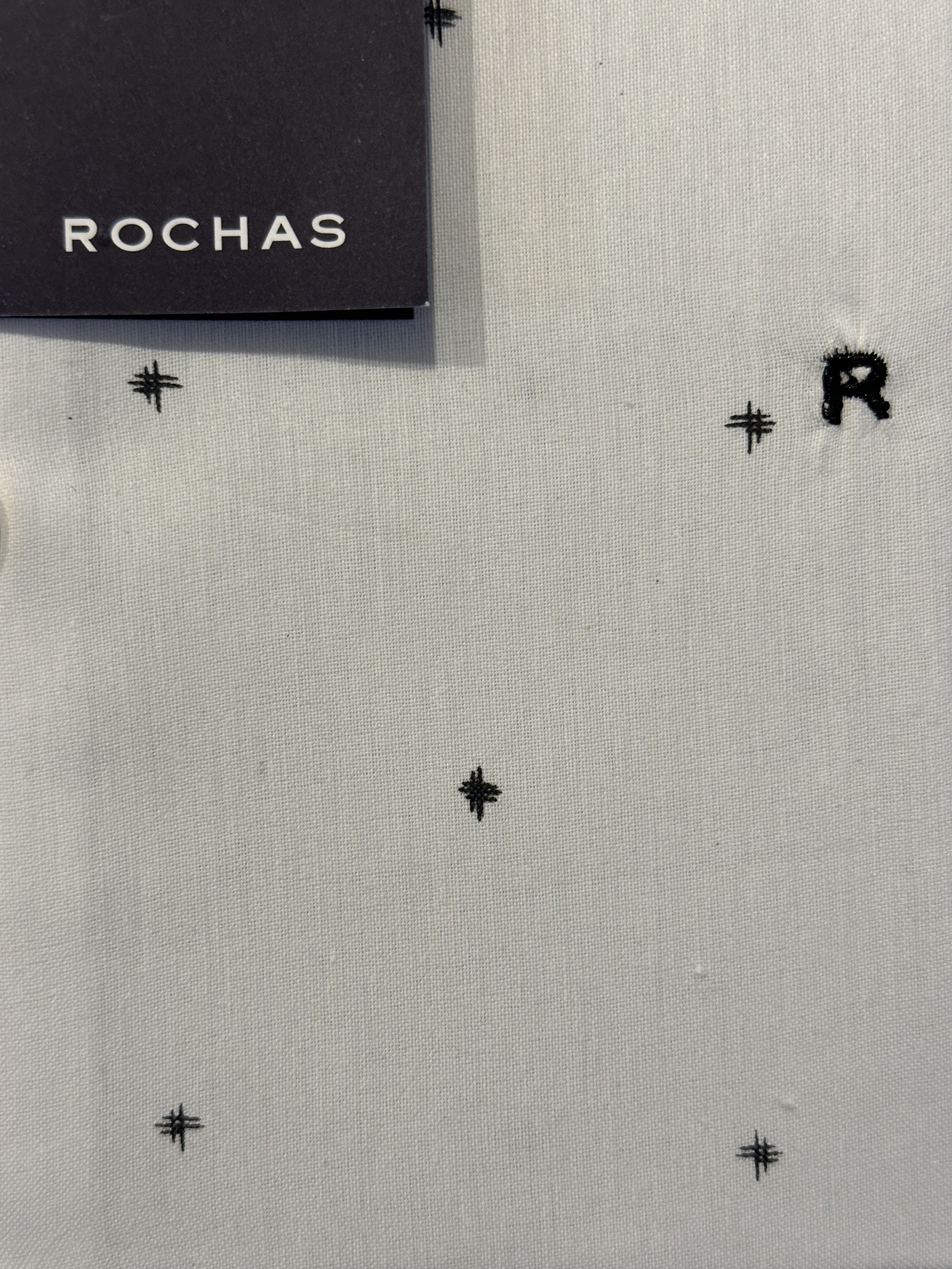
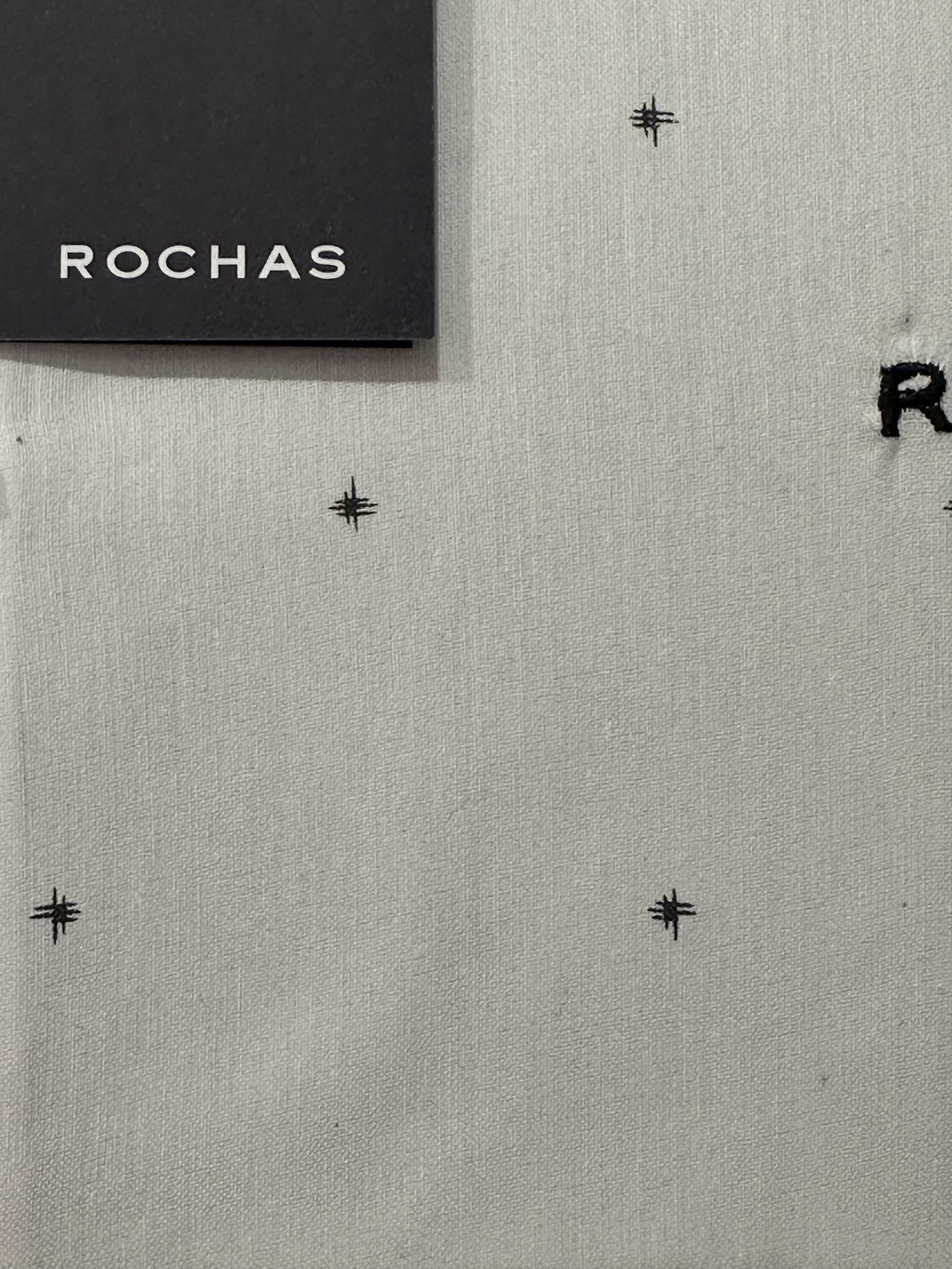
CAMBIANDO FOTOS

diff --git a/ESTAMPAS GRANDE/8169.html b/ESTAMPAS GRANDE/8169.html
@@ -1,0 +1,69 @@
+<!DOCTYPE html>
+<html lang="en">
+<head>
+    <meta charset="UTF-8">
+    <meta http-equiv="X-UA-Compatible" content="IE=edge">
+    <meta name="viewport" content="width=device-width, initial-scale=1.0">
+    <title>(8169)-ROCHAS Estampada</title>
+    <link rel = "stylesheet" href = "../Css/style2.css">
+    <link rel="stylesheet" href="https://cdnjs.cloudflare.com/ajax/libs/font-awesome/5.15.4/css/all.min.css" integrity="sha512-1ycn6IcaQQ40/MKBW2W4Rhis/DbILU74C1vSrLJxCq57o941Ym01SwNsOMqvEBFlcgUa6xLiPY/NS5R+E6ztJQ==" crossorigin="anonymous" referrerpolicy="no-referrer" />
+</head>
+<body>
+    <header>
+        <nav class="menu2">
+          <ul class="menu_items"id="otroModo">
+              <li><a href="../index.html">VOLVER AL MENU</a></li>
+          </ul>
+          <span class="btn_menu"onclick="showmenu()">
+              <i class="fa fa-bars"></i>
+          </span>
+        </nav>
+      </header>
+    <div class = "main-wrapper">
+        <div class = "container">
+            <div class = "product-div">
+                <span class = "product-name">(8169)-ROCHAS Estampada</span>
+                <div class = "product-div-left">
+                    <div class = "img-container">
+                        <div class="wrapper">
+                            <div class="block">
+                                <img src="../Picture/ESTAMPA/49.jpg"alt="Image To Zoom" class="block__pic" data-title="(8169)-ROCHAS Estampada" data-help="" alt = "watch">
+                            </div>
+                        </div>
+                    </div>
+                    <div class = "hover-container">
+                        <div><img src = "../Picture/ESTAMPA/49.jpg"></div>
+                        <div><img src = "../Picture/ESTAMPA/50.jpg"></div>
+                        <div><img src = "../Picture/ESTAMPA/51.jpg"></div>
+                    </div>
+                </div>
+                <div class = "product-div-right">
+                    <!--
+                    <span class = "product-name">(5021) ROCHAS - MANGA CORTA</span>
+                    <span class = "product-price">$ ---</span>
+                    <div class = "product-rating">
+                        <span><i class = "fas fa-star"></i></span>
+                        <span><i class = "fas fa-star"></i></span>
+                        <span><i class = "fas fa-star"></i></span>
+                        <span><i class = "fas fa-star"></i></span>
+                        <span><i class = "fas fa-star-half-alt"></i></span>
+                        <span>(350 ratings)</span>
+                    </div>
+                    <p class = "product-description">Lorem ipsum dolor, sit amet consectetur adipisicing elit. Vitae animi ad minima veritatis dolore. Architecto facere dignissimos voluptate fugit ratione molestias quis quidem exercitationem voluptas.</p>
+                    <div class = "btn-groups">
+                        <button type = "button" class = "add-cart-btn"><i class = "fas fa-shopping-cart"></i>add to cart</button>
+                        <button type = "button" class = "buy-now-btn"><i class = "fas fa-wallet"></i>buy now</button>
+                    </div>
+                    -->
+                </div>
+            </div>
+        </div>
+    </div>
+
+    <script src="https://code.jquery.com/jquery-3.4.0.min.js" integrity="sha384-JUMjoW8OzDJw4oFpWIB2Bu/c6768ObEthBMVSiIx4ruBIEdyNSUQAjJNFqT5pnJ6" crossorigin="anonymous"></script>
+    <script src="../assets/zoomsl.js"></script>
+    <script src="../assets/script.js"></script>
+
+    <script src = "../script.js"></script>
+</body>
+</html>

diff --git a/index.html b/index.html
@@ -161,6 +161,26 @@
           <div id="carouselExampleSlidesOnly" class="carousel slide" data-bs-ride="carousel">
             <div class="carousel-inner">
               <div class="carousel-item active">
+                <img src="./Picture/ESTAMPA/49.jpg" class="d-block w-100 rounded pt-2" alt="...">
+              </div>
+              <div class="carousel-item">
+                <img src="./Picture/ESTAMPA/50.jpg" class="d-block w-100 rounded pt-2" alt="...">
+              </div>
+              <div class="carousel-item">
+                <img src="./Picture/ESTAMPA/51.jpg" class="d-block w-100 rounded pt-2" alt="...">
+              </div>
+            </div>
+          </div>
+          <div class="card-body">
+            <h5 class="card-title">ROCHAS ESTAMPA</h5>
+            <p class="card-text">ARTICULO : 8169</p>
+            <a href="./ESTAMPAS GRANDE/8169.html" class="btn btn-success">VER EN GRANDE</a>
+          </div>
+        </div>
+        <div class="card m-3" style="width: 18rem;">
+          <div id="carouselExampleSlidesOnly" class="carousel slide" data-bs-ride="carousel">
+            <div class="carousel-inner">
+              <div class="carousel-item active">
                 <img src="./Picture/ESTAMPA/40.jpg" class="d-block w-100 rounded pt-2" alt="...">
               </div>
               <div class="carousel-item">
